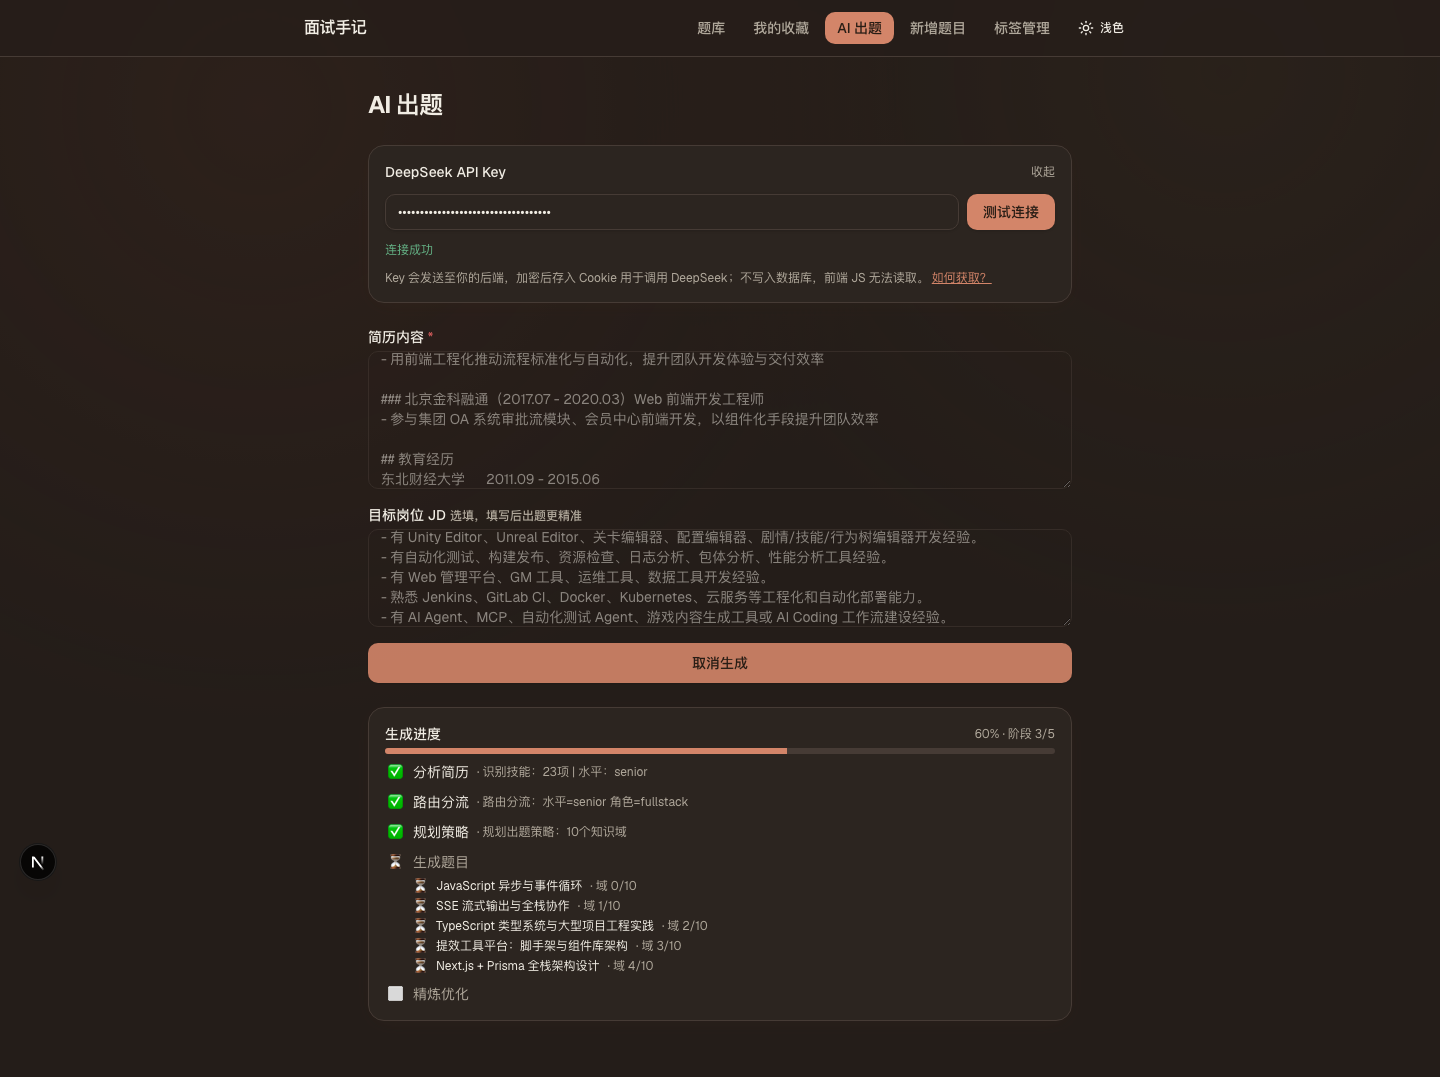
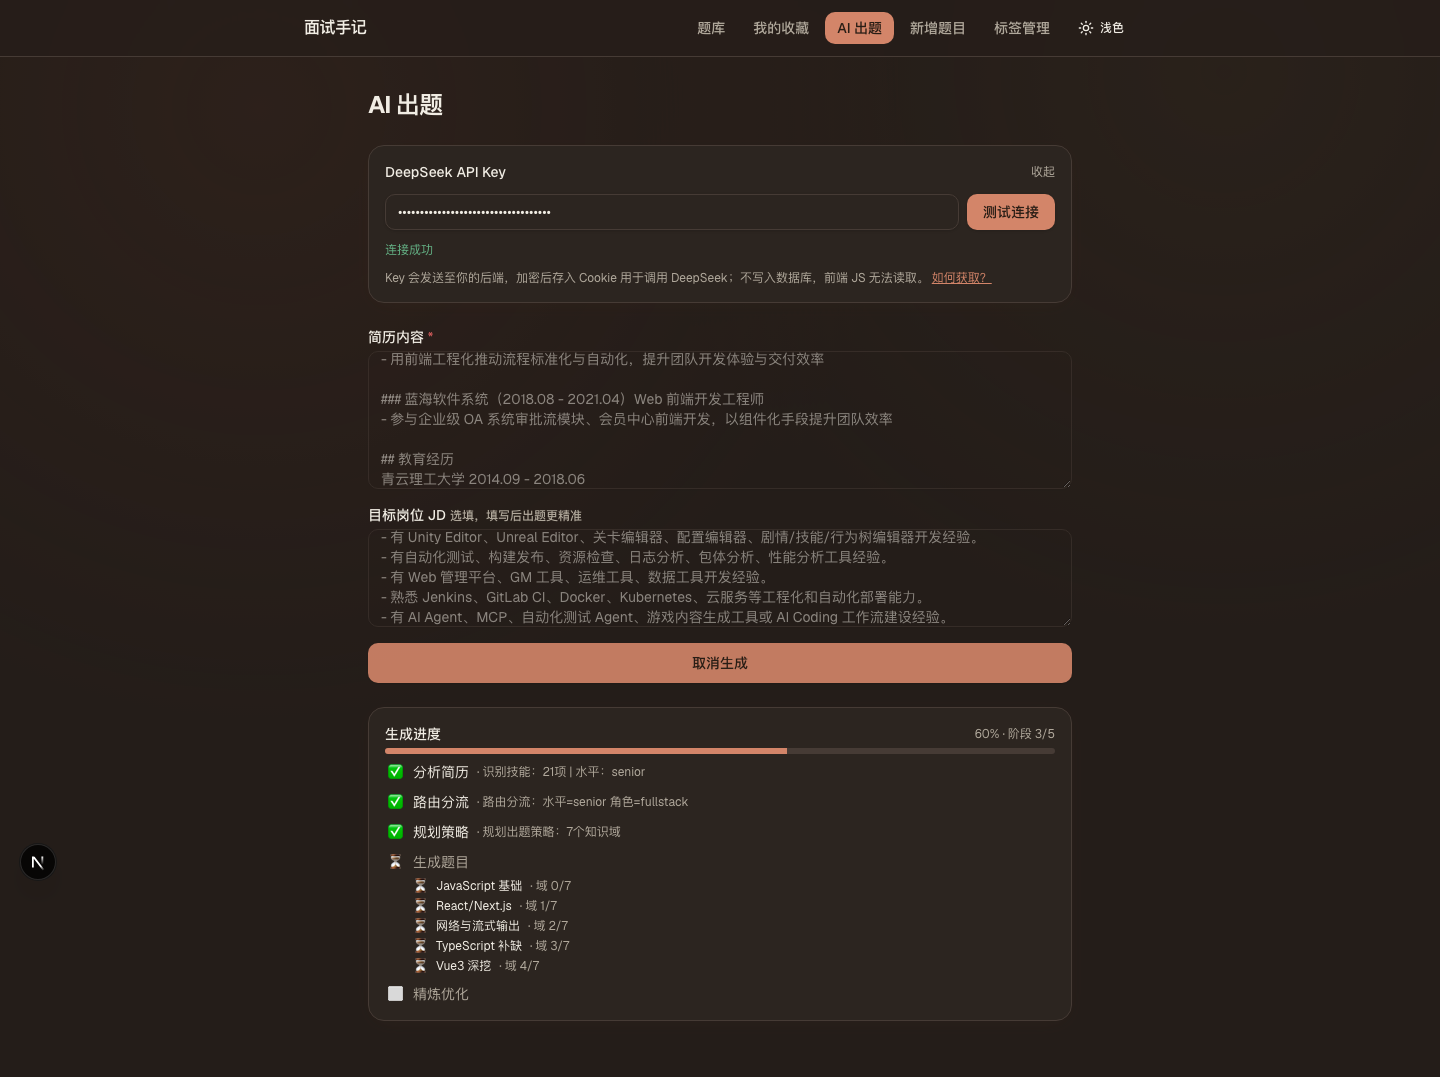
fix(screenshots): 用虚构简历重跑 AI 截图，消除真实个人信息泄漏
- docs/screenshots/screenshot-input.md 替换为全虚构素材
  （公司、学校、时间线、岗位职责均为杜撰）
- 用该虚构素材真实跑 DeepSeek 出题流程，重生成 18 张 AI 相关截图
  （含 idle/key-connected/form-filled/4 阶段/success 的 light+dark
   以及 error-banner/error-partial 的 light+dark）
- 不改动源码；已通过 type-check / test(50) / build

diff --git a/docs/screenshots/screenshot-input.md b/docs/screenshots/screenshot-input.md
@@ -1,10 +1,7 @@
 # 执行截图所需的简历 + JD 文本
 
-> 本文件由 2026-08-13 截图任务创建，作为 AI 出题工作流（`/ai-generate`）的真实输入素材。
-> 来源：用户提供的简历 `~/Desktop/简历-修订版-20260806.md` + JD（游戏工具开发岗）截图。
-> 用途：Playwright 自动化真实跑 AI 出题流程（浅色 + 深色各一次）+ 错误态截图。
-> 说明：为加速出题（缩短 LLM 处理耗时、避免超出截图脚本的每流超时），此处为「精简版真实简历」——
-> 保留核心技能栈与工作经验，省略冗长项目叙述；仍为真实 DeepSeek 跑通，题目质量不受影响。
+> 本文件为 **虚构演示素材**，仅用于 Playwright 自动化截图，展示 AI 出题工作流（`/ai-generate`）的界面形态。
+> 文中所有公司、学校、时间线、岗位职责均为杜撰，与真实个人无关。
 
 ---
 
@@ -19,18 +16,18 @@
 - 研究浏览器渲染机制与页面性能优化，具备中后台 SPA 与组件库开发经验
 - 具备 Electron 跨平台桌面应用开发经验（架构到打包分发）
 - 独立全栈能力：Next.js + Prisma + PostgreSQL 架构设计与部署上线
-- 使用 AI 编程工具（Cursor / Claude Code）辅助开发，掌握 LangGraph.js 工作流编排与 SSE 流式输出
+- 使用 AI 编程工具辅助开发，掌握 LangGraph.js 工作流编排与 SSE 流式输出
 
 ## 工作经验
-### 北京永航科技（2020.03 - 2025.06）高级 Web 前端开发
-- 负责游戏部门提效工具平台 Web 端整体开发与维护，主导脚手架 / 组件库 / 监控平台
+### 星际前端科技（2021.05 - 2026.03）高级 Web 前端开发
+- 负责内部提效工具平台 Web 端整体开发与维护，主导脚手架 / 组件库 / 监控平台
 - 用前端工程化推动流程标准化与自动化，提升团队开发体验与交付效率
 
-### 北京金科融通（2017.07 - 2020.03）Web 前端开发工程师
-- 参与集团 OA 系统审批流模块、会员中心前端开发，以组件化手段提升团队效率
+### 蓝海软件系统（2018.08 - 2021.04）Web 前端开发工程师
+- 参与企业级 OA 系统审批流模块、会员中心前端开发，以组件化手段提升团队效率
 
 ## 教育经历
-东北财经大学   2011.09 - 2015.06
+青云理工大学 2014.09 - 2018.06
 
 ## === 简历结束 ===
 
